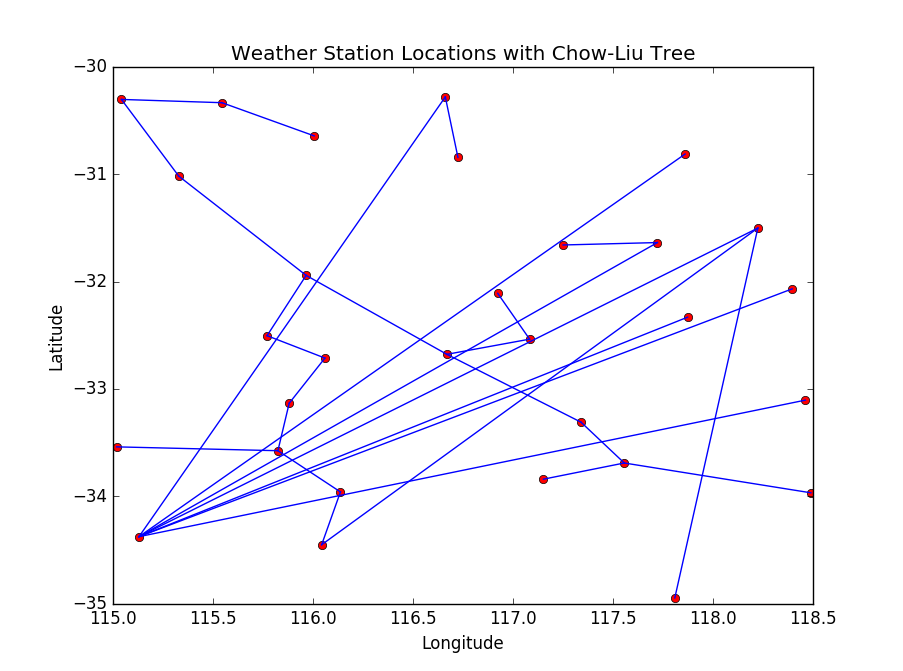
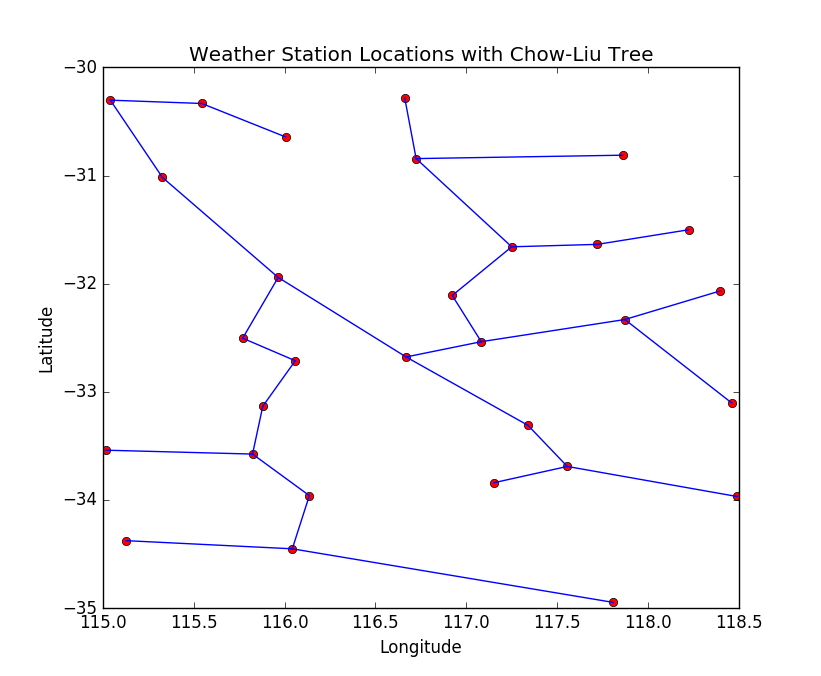
df

diff --git a/HW2/HW2Code/problem1.py b/HW2/HW2Code/problem1.py
@@ -38,12 +38,12 @@ for i in range(n):
         curTerm = 0
         for k1 in range(2):
             for k2 in range(2):
-                denomTerm = probXj[i,k1]*probXj[i,k2]
+                denomTerm = probXj[i,k1]*probXj[j,k2]
                 jointTerm = probXjk[i, j, k1, k2]
                 if denomTerm>0 and jointTerm>0:
                     curTerm += jointTerm*np.log(jointTerm/denomTerm)
         mutualInfo[i, j] = curTerm
-
+print mutualInfo[0:5,0:5]
 #each entry should be close to zero, which does occur
 #print mutualInfo-np.transpose(mutualInfo)
 
@@ -106,20 +106,20 @@ for curI in range(len(sortedEdges)):
 
 #print adjMatrix
 
-# plt.hold(True)
-# plt.plot(loc[:,1],loc[:,0],'ro')
-# for i in range(n):
-#     for j in range(i+1,n):
-#         node0 = loc[i,:]
-#         node1 = loc[j,:]
-#         xx = [node0[1],node1[1]];
-#         yy = [node0[0],node1[0]]
-#         if adjMatrix[i,j]>0:
-#             plt.plot(xx,yy,'b-')
-# plt.title('Weather Station Locations with Chow-Liu Tree')
-# plt.xlabel('Longitude')
-# plt.ylabel('Latitude')
-# plt.show()
+plt.hold(True)
+plt.plot(loc[:,1],loc[:,0],'ro')
+for i in range(n):
+    for j in range(i+1,n):
+        node0 = loc[i,:]
+        node1 = loc[j,:]
+        xx = [node0[1],node1[1]];
+        yy = [node0[0],node1[0]]
+        if adjMatrix[i,j]>0:
+            plt.plot(xx,yy,'b-')
+plt.title('Weather Station Locations with Chow-Liu Tree')
+plt.xlabel('Longitude')
+plt.ylabel('Latitude')
+plt.show()
 
 def getAdjList(adjMatrix):
     mm,xx = adjMatrix.shape
